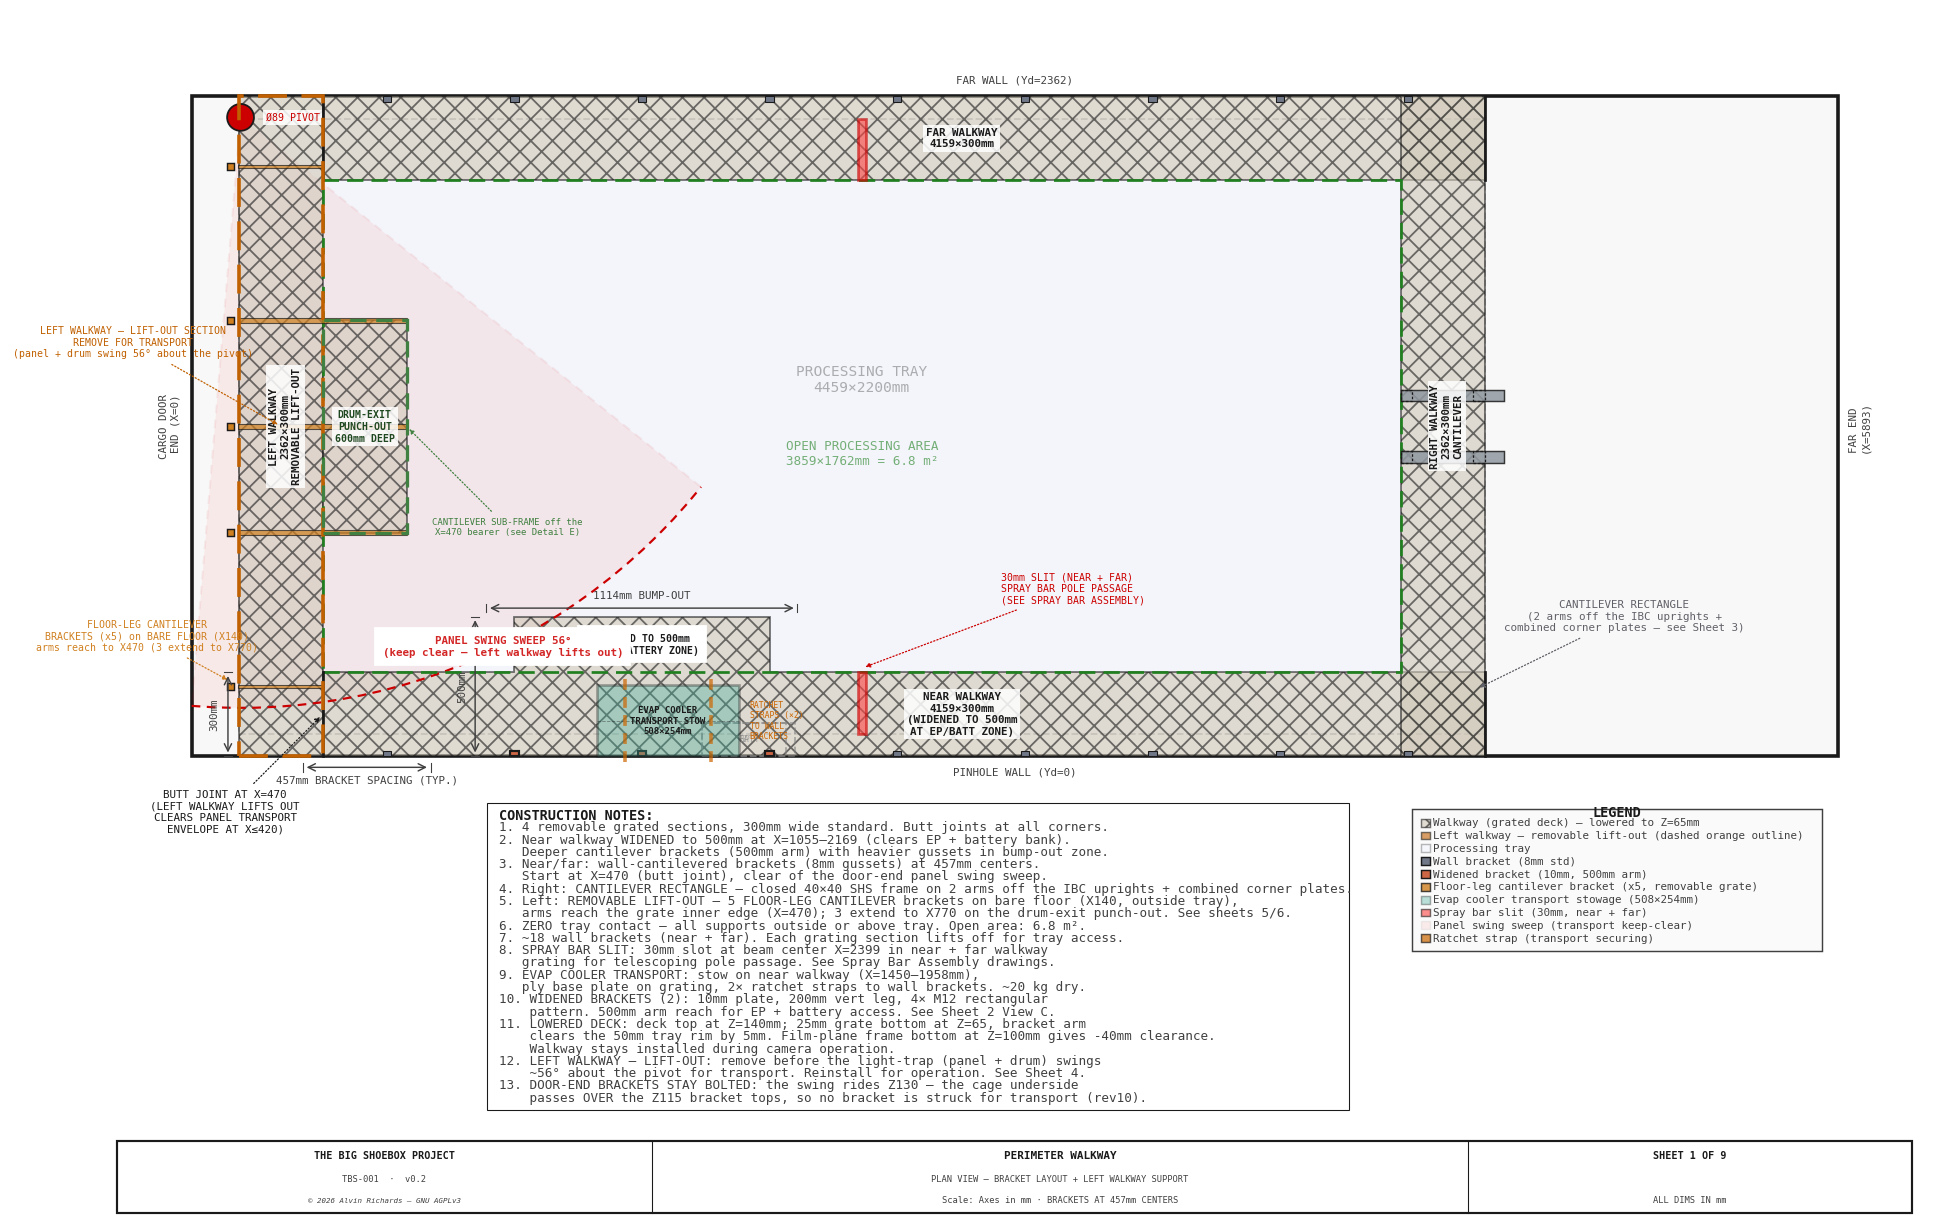
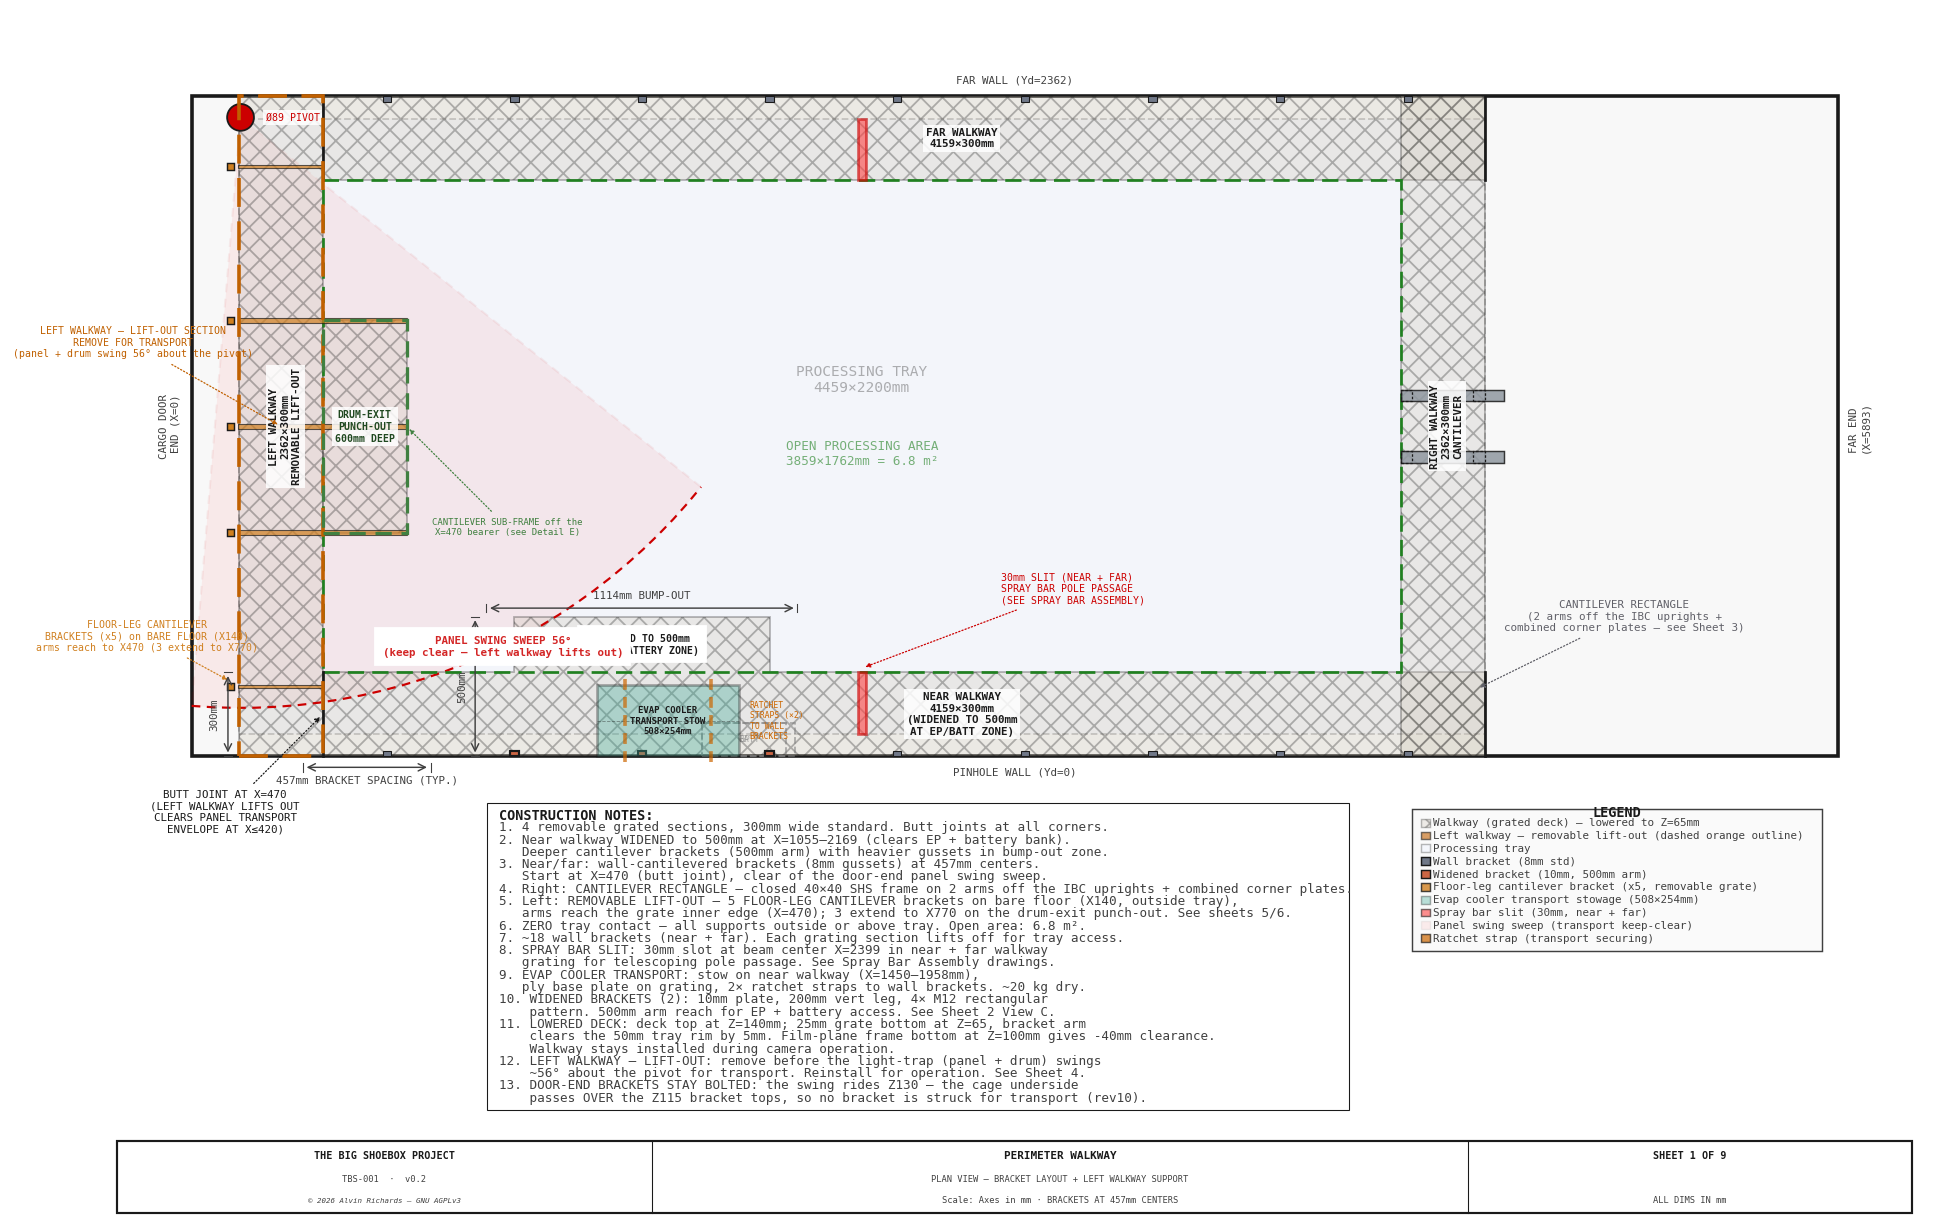
walkway-sheet1: halve the walkway grating hatch alpha for readability
WK_ALPHA 0.6 -> 0.3 so the xx grating hatch reads lighter and the labels/
features over the walkway (open-area callout, bump-out, near walkway) are
clearer. Shared by the fills and the legend swatch, so both stay in step.

Changed region(s): [[0.1241, 0.0618, 0.7756, 0.6179], [0.4654, 0.5252, 0.4964, 0.5561]]

diff --git a/src/generators/generate_walkway_diagram.py b/src/generators/generate_walkway_diagram.py
@@ -684,7 +684,7 @@ def sheet1():
     # so they clear the panel swing sweep at the door end.
     # Right corners: BUTT JOINT — right walkway is the cantilever rectangle (same 300mm width).
     C_WK = "#D0C8B8"
-    WK_ALPHA = 0.6
+    WK_ALPHA = 0.3   # grating hatch at half the old alpha (0.6) — keeps the plan readable
     W = WALKWAY_W
 
     LX  = WALKWAY_LEFT_X;   LXR = LX + W
